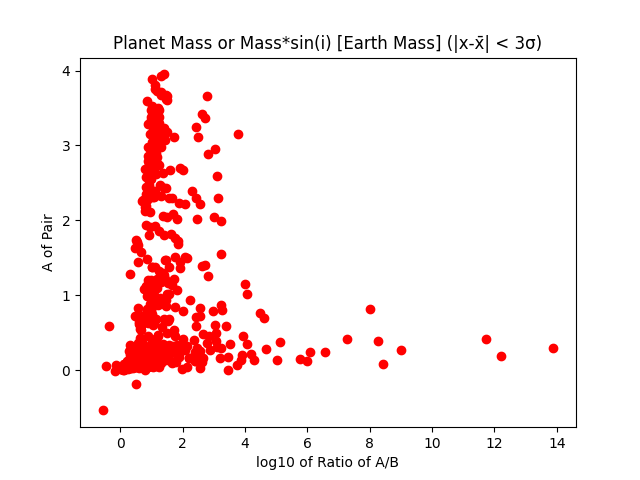
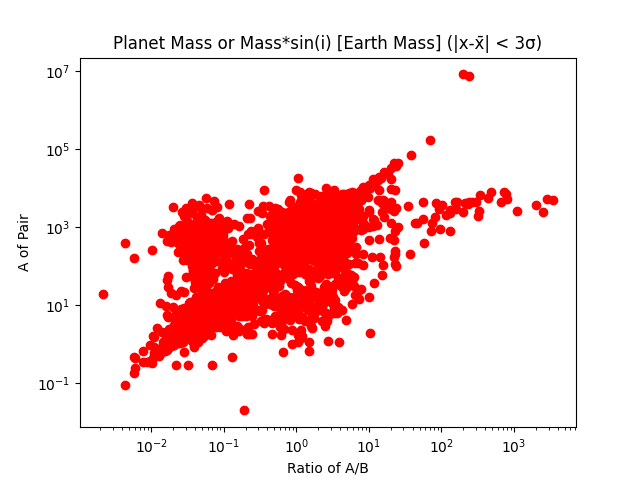
Graphs

diff --git a/tests/big.py b/tests/big.py
@@ -1,0 +1,10 @@
+import exoanalyzer
+
+data = exoanalyzer.data.query()
+exoanalyzer.plot_dual(data, 'pl_orbsmax', 'pl_bmasse', use_log10 = True)
+exoanalyzer.plot_dual(data, 'pl_orbsmax', 'pl_orbper', use_log10 = True)
+
+pairs = exoanalyzer.util.get_system_pairs(data)
+exoanalyzer.plot_pair_ratio(pairs, 'pl_bmasse', use_log10 = False, max_deviations = 3)
+exoanalyzer.plot_pair_ratio(pairs, 'pl_masse', use_log10 = False, max_deviations = 3)
+exoanalyzer.plot_pair_ratio(pairs, 'pl_orbper', use_log10 = False, max_deviations = 3)

diff --git a/src/exoanalyzer/plotter/__init__.py b/src/exoanalyzer/plotter/__init__.py
@@ -32,7 +32,7 @@ def plot_pair_ratio(pair_data, plotLabel, **kwargs):
         'use_log10': True,
         'max_deviations': None,
         'file_path': "./graphs/",
-        'file_name': f"Graph_of_{plotLabel}.png",
+        'file_name': f"Graph_of_{plotLabel}_Pair_Ratios.png",
     }
     kwargs = { **defaultKwargs, **kwargs }
     max_deviations = kwargs.get('max_deviations') or None
